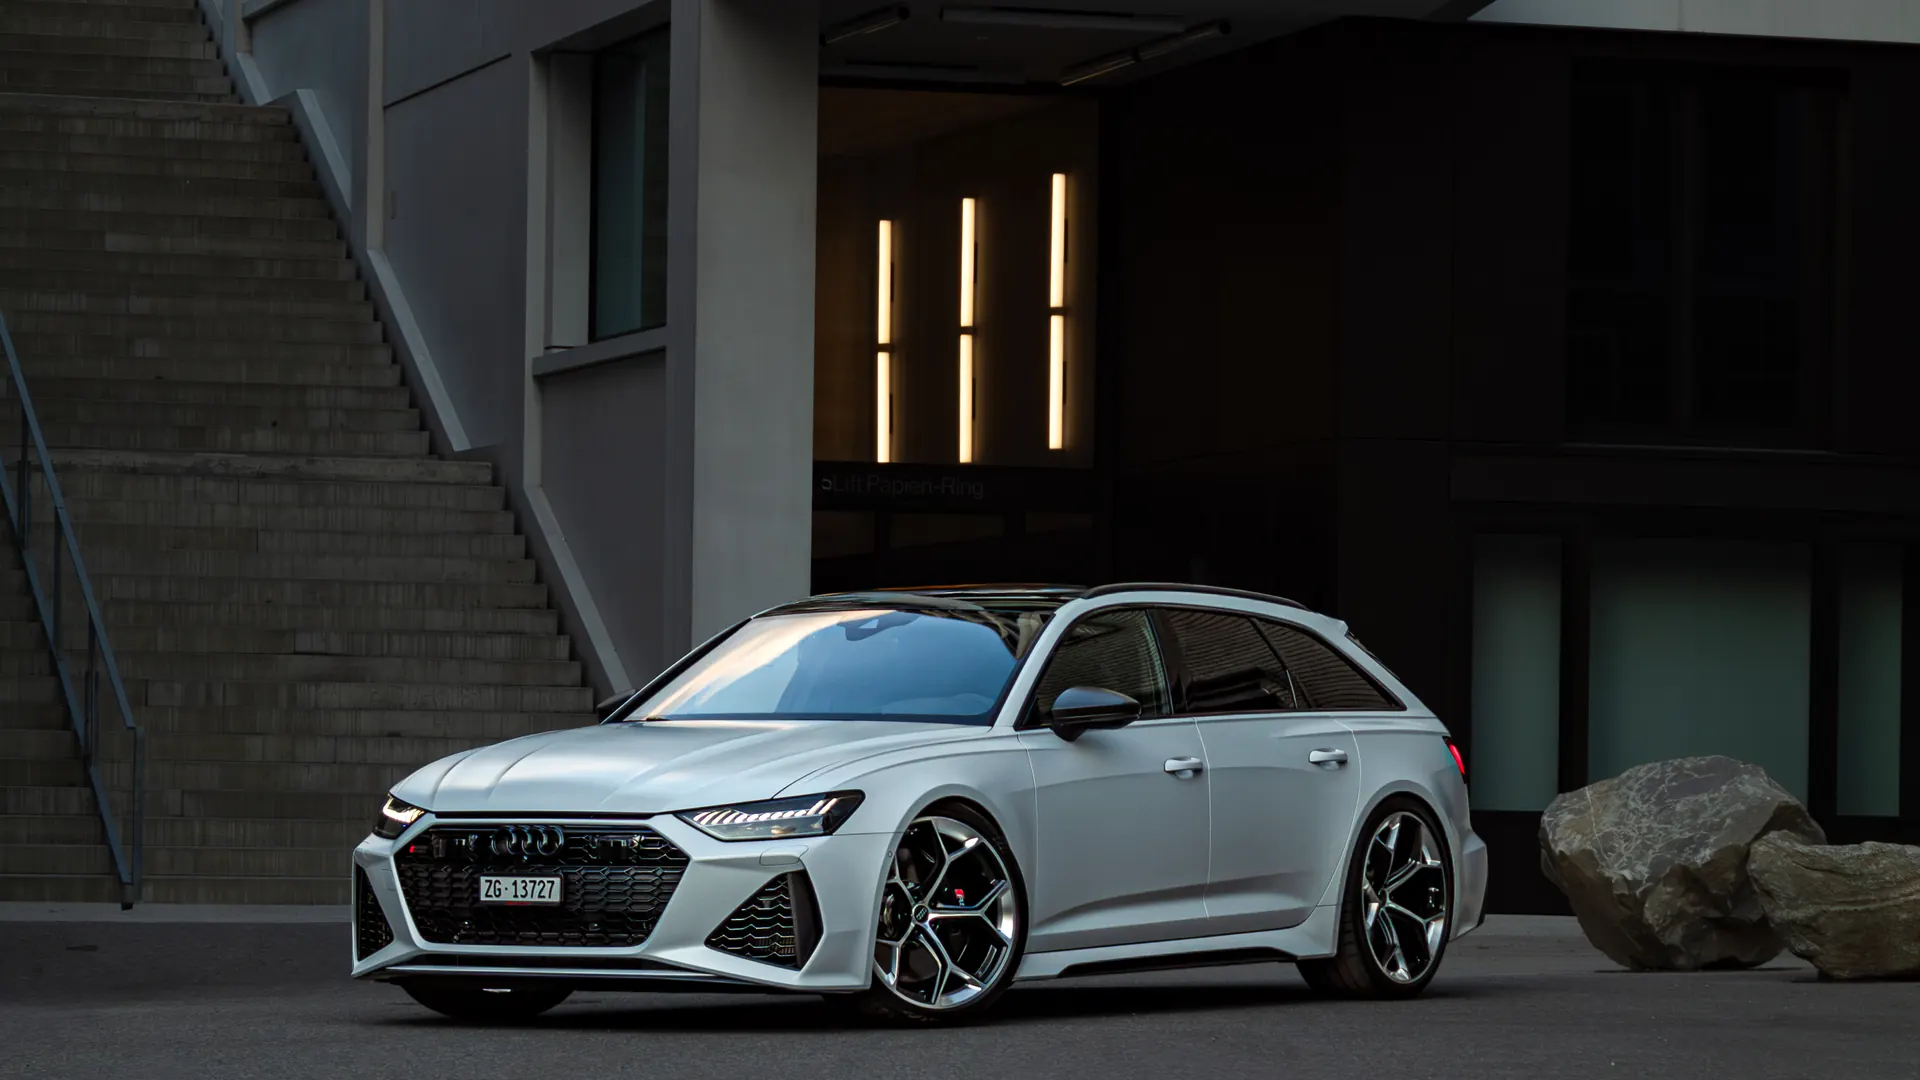
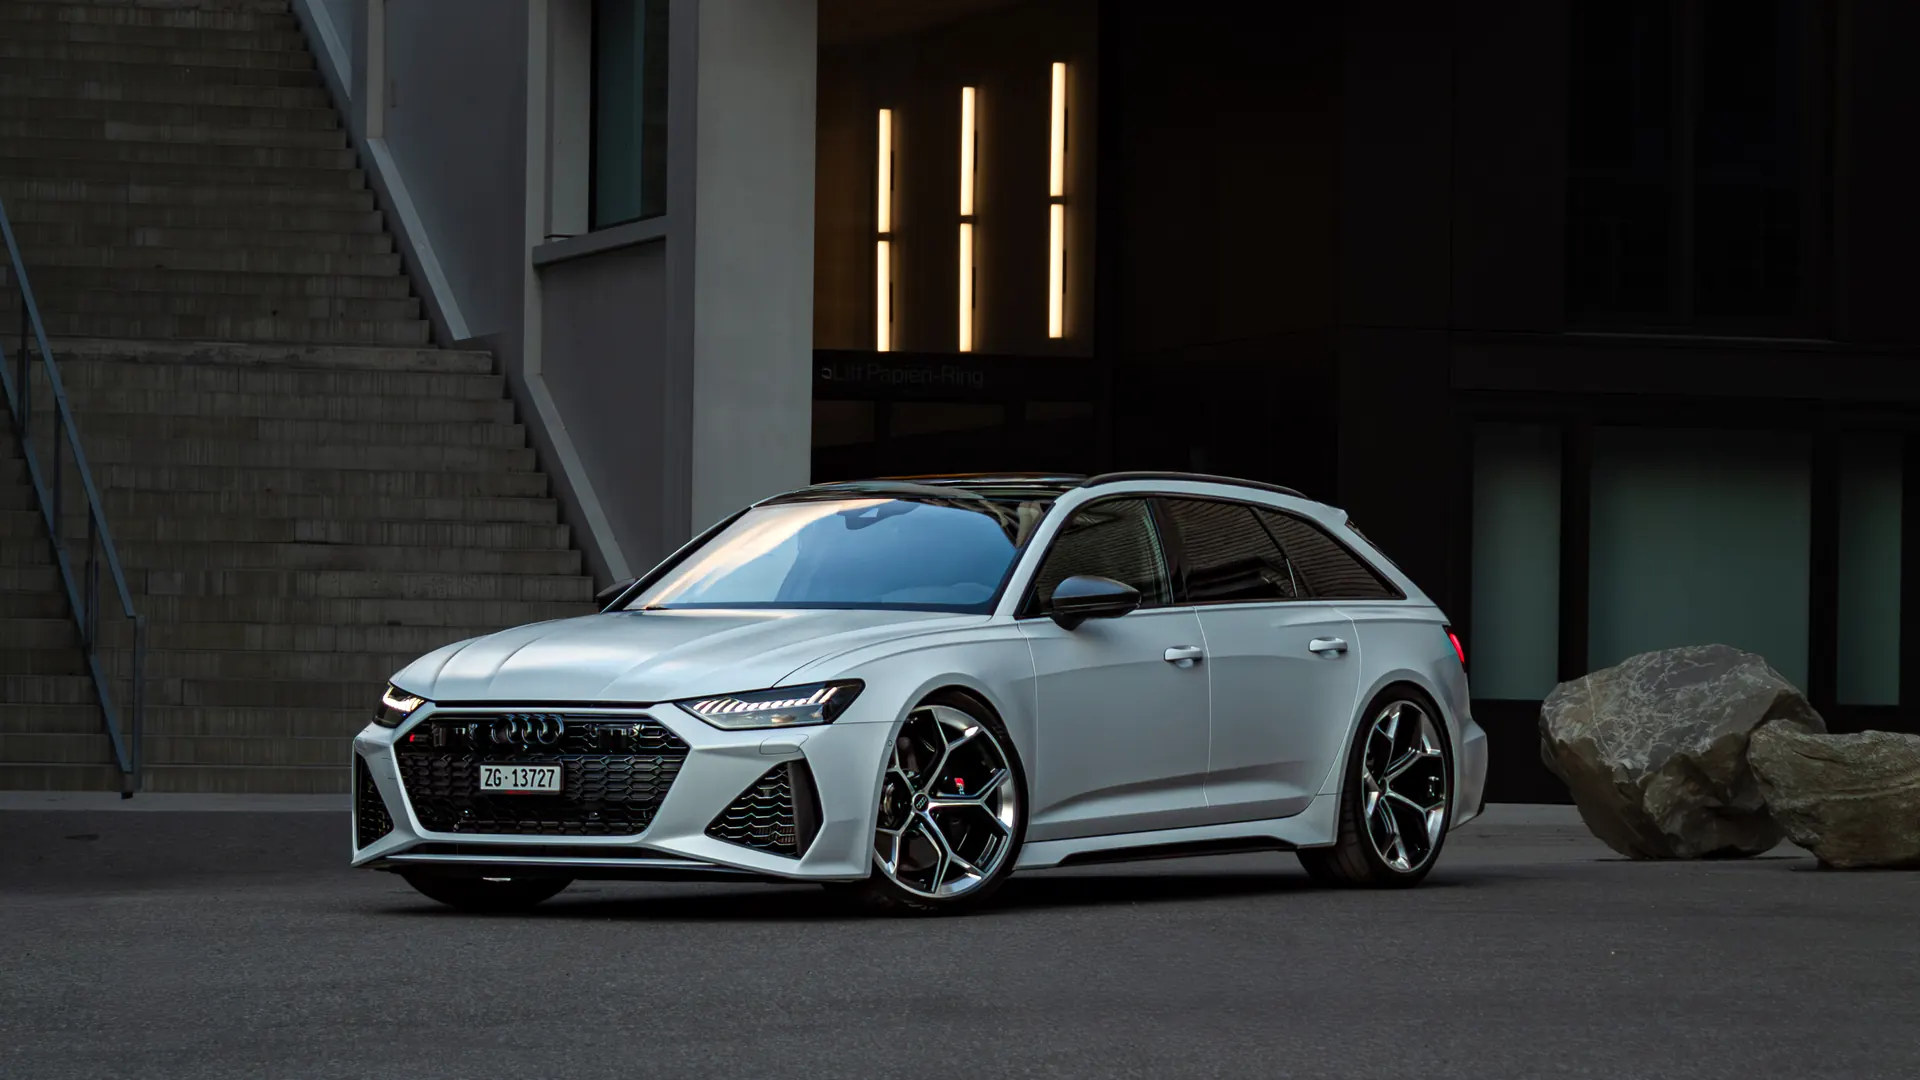
Hero: Fahrzeug bei allen Bildschirmbreiten vollständig sichtbar

diff --git a/index.html b/index.html
@@ -29,8 +29,8 @@
 
     /* Hero */
     .hero{min-height:720px;height:100vh;position:relative;display:flex;align-items:flex-end;padding:0 5.5vw 8vw;overflow:hidden}
-    .hero:after{content:'';position:absolute;inset:0;background:linear-gradient(90deg,rgba(245,245,245,.85) 0%,rgba(245,245,245,.4) 38%,rgba(245,245,245,0) 65%),linear-gradient(0deg,var(--ink) 0%,transparent 5%)}
-    .hero-img{position:absolute;inset:0;width:100%;height:100%;object-fit:cover;object-position:center;filter:saturate(1.25) contrast(1.12)}
+    .hero:after{content:'';position:absolute;inset:0;background:linear-gradient(90deg,rgba(245,245,245,.85) 0%,rgba(245,245,245,.4) 38%,rgba(245,245,245,0) 65%),linear-gradient(0deg,var(--ink) 0%,transparent 4%)}
+    .hero-img{position:absolute;inset:0;width:100%;height:100%;object-fit:cover;object-position:50% 75%;filter:saturate(1.25) contrast(1.12)}
     .hero-content{z-index:1;max-width:800px;color:#2b2b2c}
     .hero h1{font-size:clamp(3.1rem,8vw,7.2rem);line-height:.93;letter-spacing:-.075em;margin:20px 0 24px;font-weight:800}
     .hero h1 span{color:#6a6a6c}
@@ -110,7 +110,7 @@
     @media(max-width:1000px){.slide{flex-basis:calc((100% - 14px)/2)}.feat-grid,.price-grid{grid-template-columns:1fr}.price-card{min-height:auto}}
     @media(max-width:800px){
       .nav{height:68px;padding:0 6vw}.brand-logo{height:42px}.links{display:none}
-      .hero{min-height:640px;padding:0 6vw 16vw}.scroll{display:none}
+      .hero{display:block;height:auto;min-height:0;padding:68px 0 0;overflow:visible}.hero:after{display:none}.hero-img{position:relative;inset:auto;height:auto;aspect-ratio:16/9;object-position:center}.hero-content{padding:28px 6vw 56px}.hero h1{margin-top:16px}.scroll{display:none}
       .section{padding:82px 6vw}
       .eyebrow{display:block}.eyebrow p{margin-top:22px}
       .problem,.contact{grid-template-columns:1fr;gap:16px}.contact{gap:36px}
